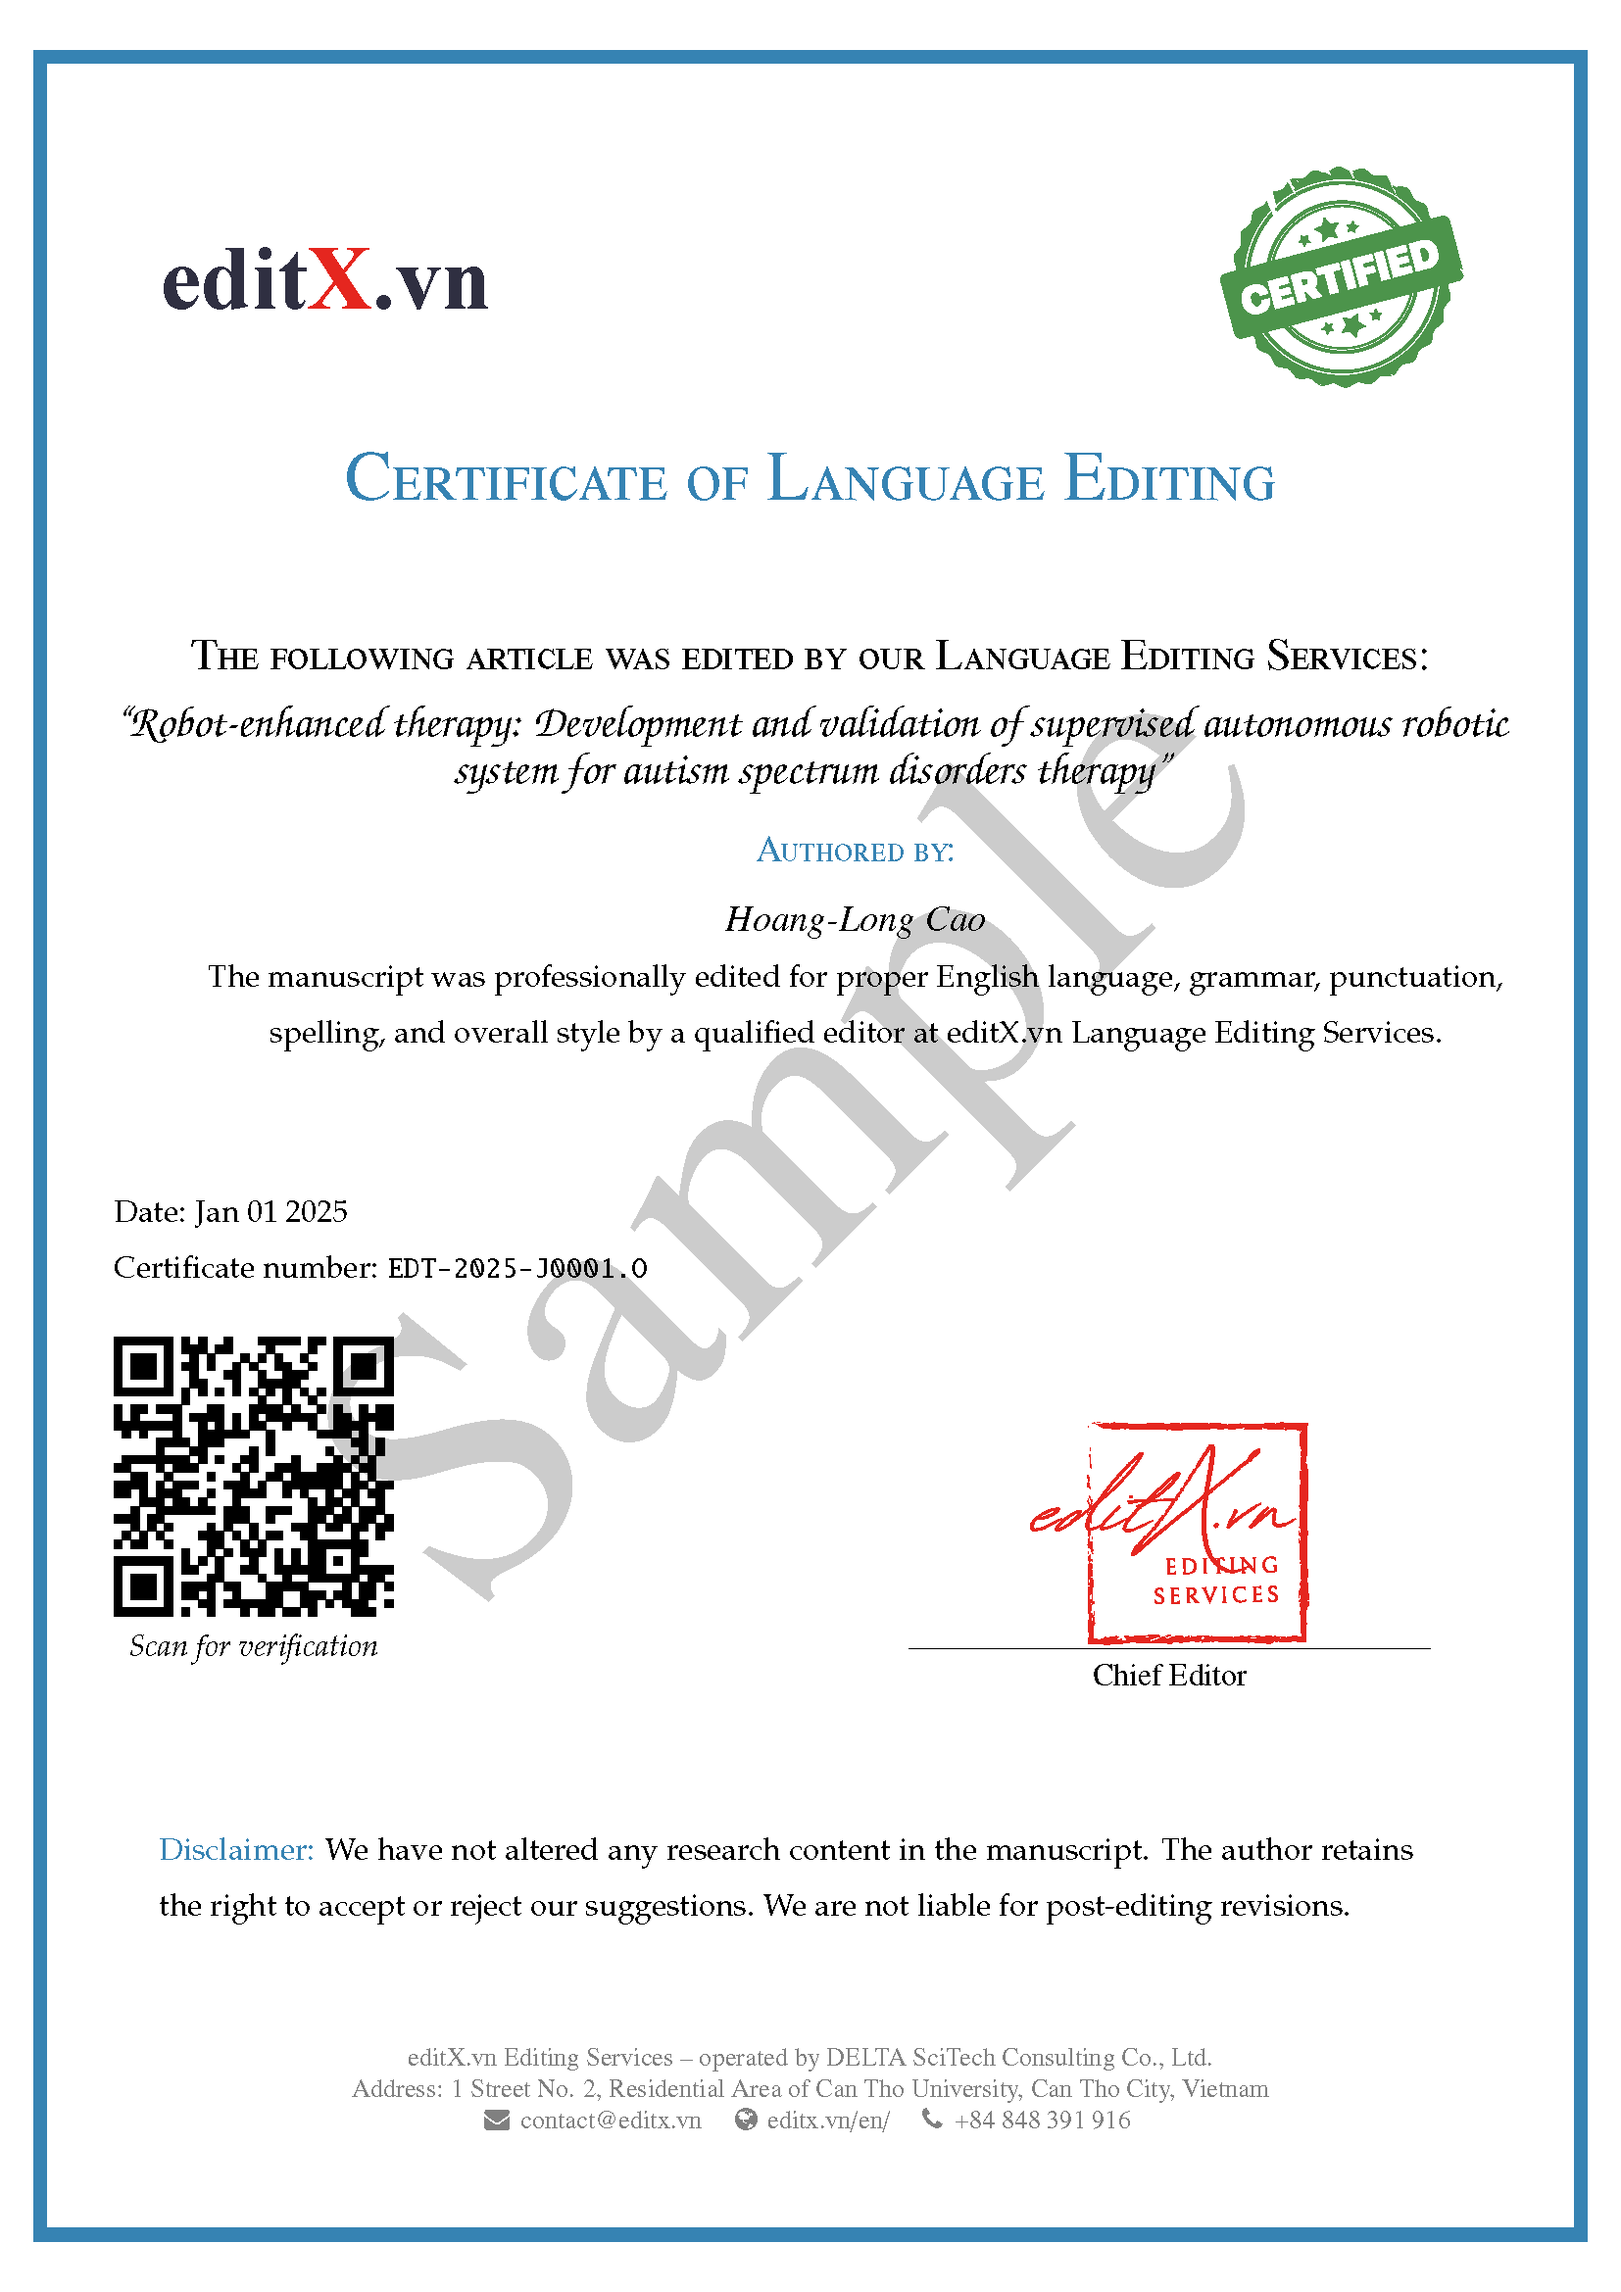
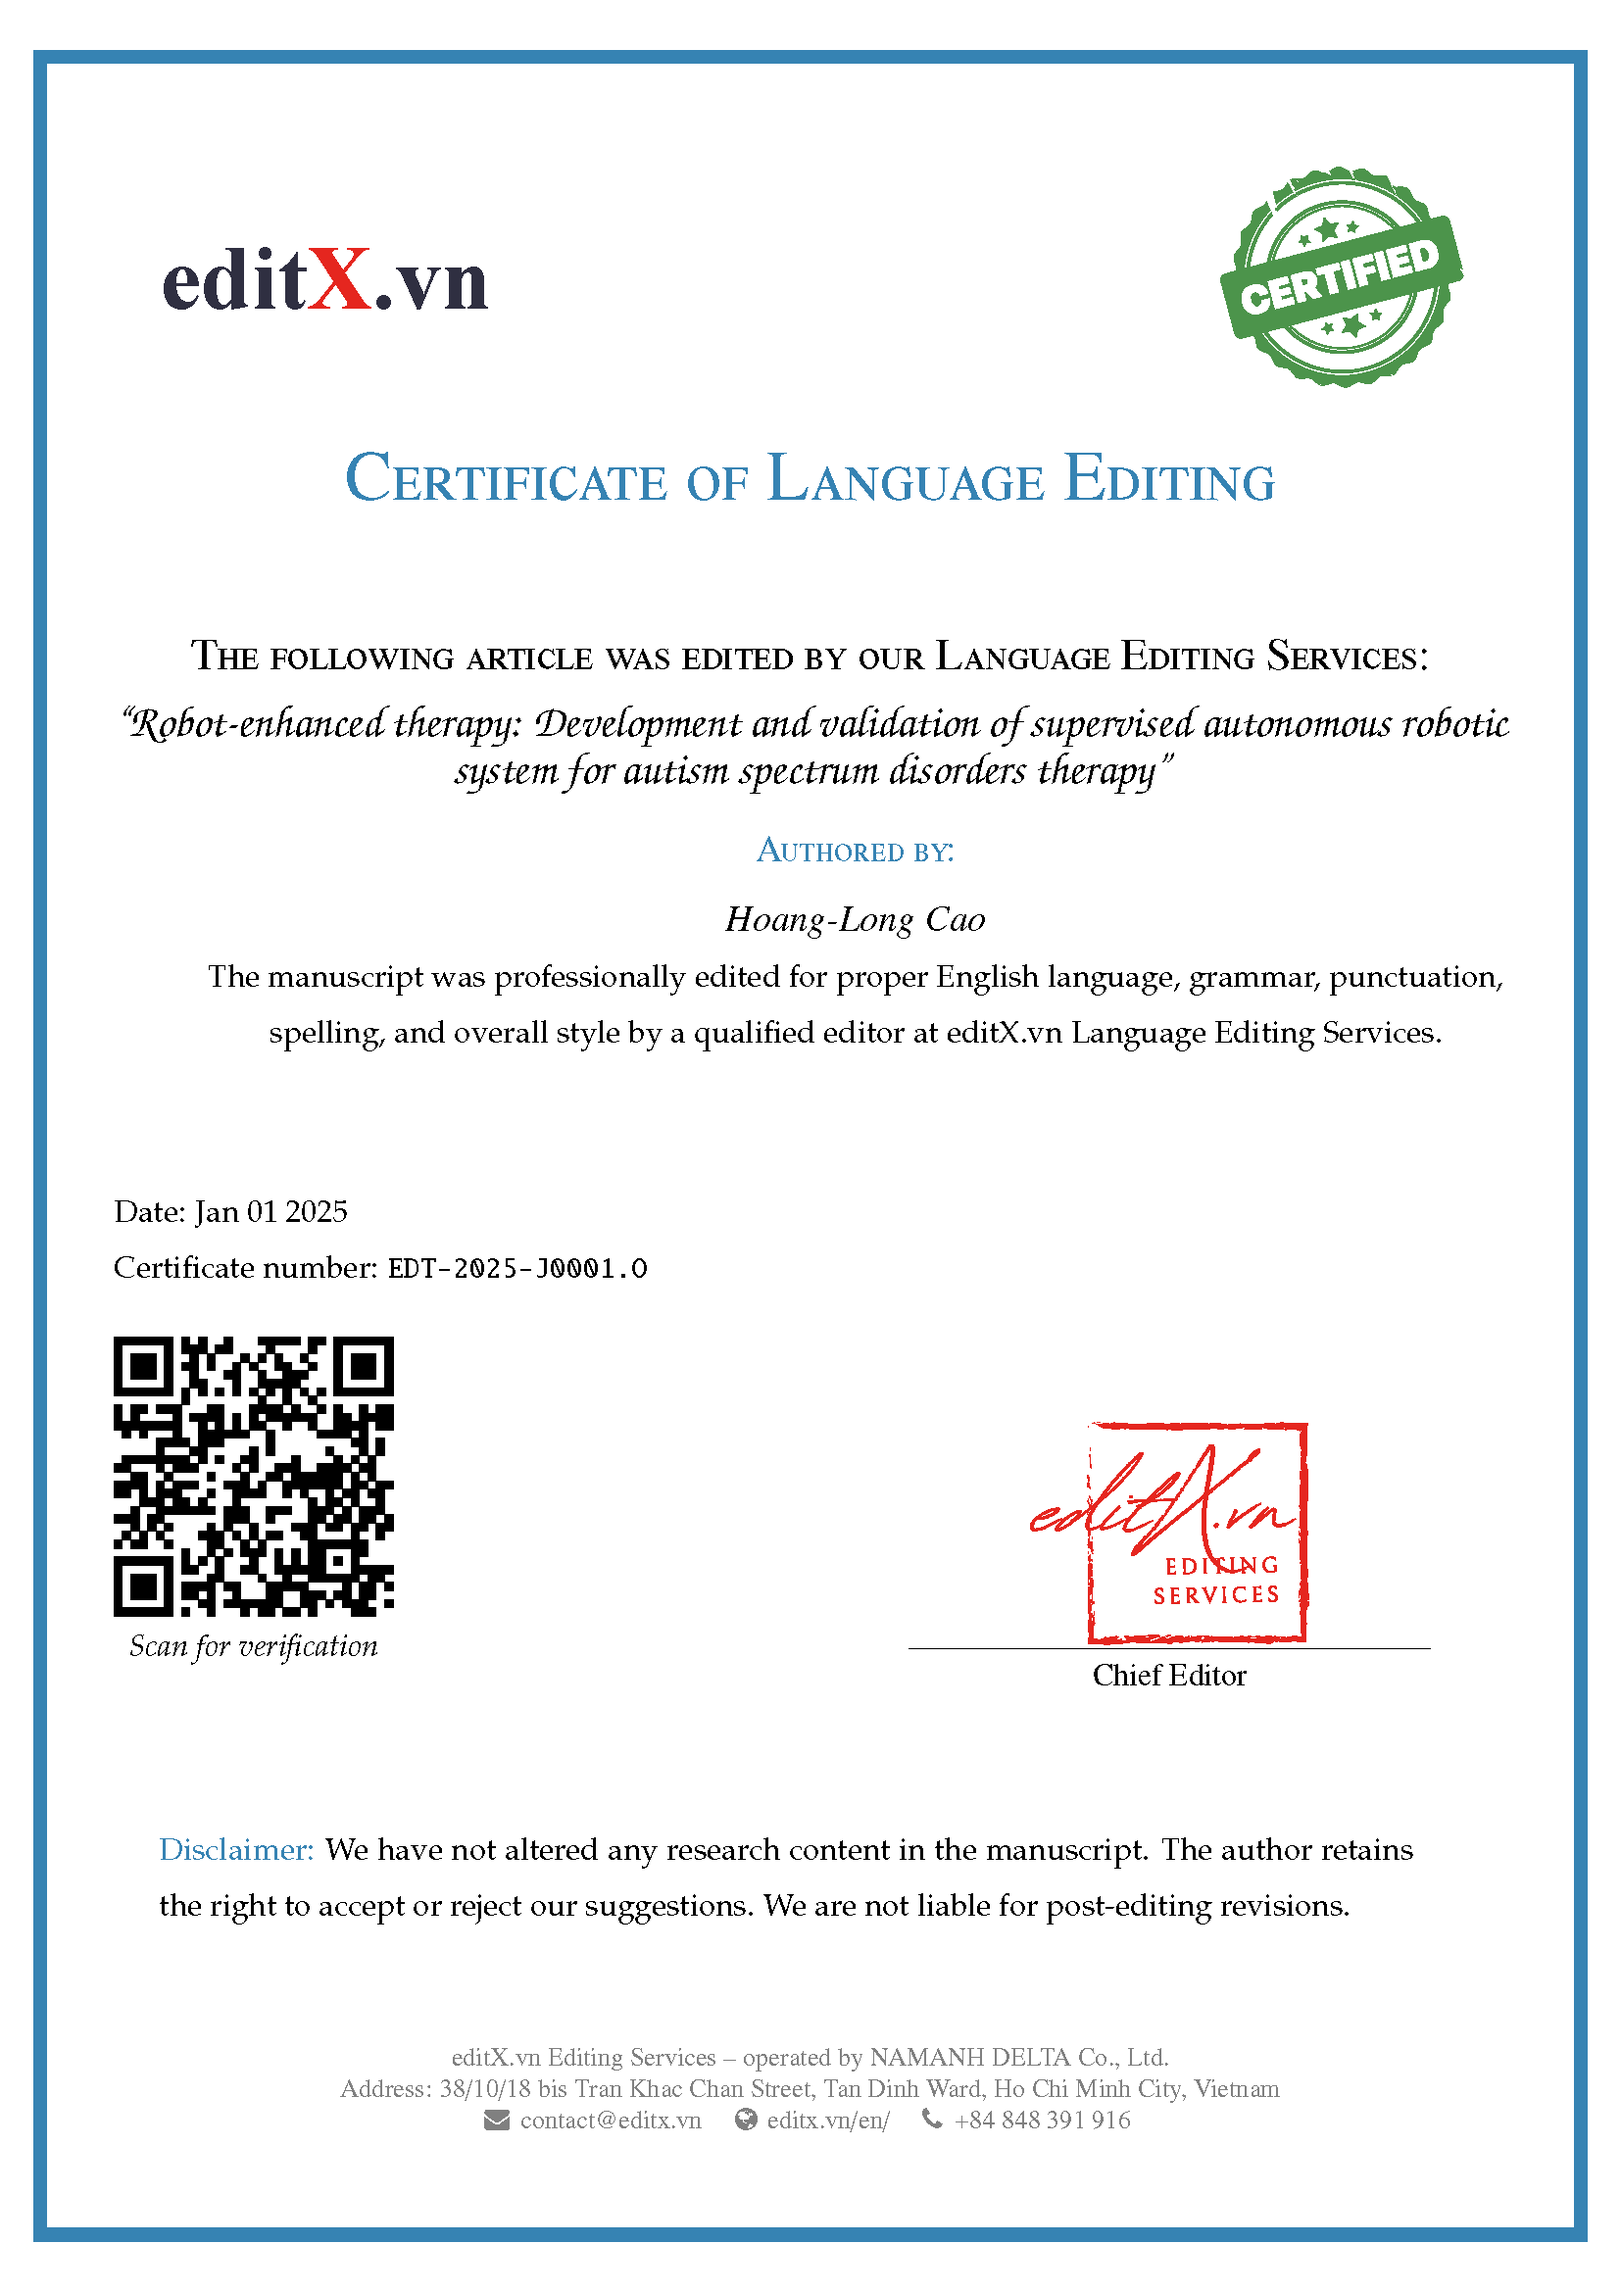
Update NAMANH

diff --git a/services/Nang cao chat luong minh hoa/index.html b/services/Nang cao chat luong minh hoa/index.html
@@ -152,8 +152,10 @@ Minh họa phức tạp: từ <strong>200.000đ</strong>/đồ thị và từ <s
         </div>
         <div class="copyright" style="color: white; font-size: 0.875rem;">
         <!-- Dịch vụ của Công ty TNHH Tư vấn khoa học và công nghệ DELTA<br> -->
-        Dịch vụ của Công ty TNHH Tư vấn khoa học và công nghệ DELTA (đang hoàn tất đăng ký)<br>
-        Số 1, Đường số 2, Khu cán bộ giảng viên Đại học Cần Thơ, Tp. Cần Thơ, Việt Nam
+        Dịch vụ của Công ty TNHH NAMANH DELTA<br>
+        38/10/18 bis Trần Khắc Chân, Phường Tân Định, Quận 1, Thành phố Hồ Chí Minh, Việt Nam<br>
+        Điện thoại/Zalo: 0848 391 916<br>
+        Email: hotro@editx.vn
         </div>
       </div>
     </div>

diff --git a/services/index.html b/services/index.html
@@ -321,8 +321,10 @@ Minh họa phức tạp: từ <strong>200.000đ</strong>/đồ thị và từ <s
         </div>
         <div class="copyright" style="color: white; font-size: 0.875rem;">
         <!-- Dịch vụ của Công ty TNHH Tư vấn khoa học và công nghệ DELTA<br> -->
-        Dịch vụ của Công ty TNHH Tư vấn khoa học và công nghệ DELTA (đang hoàn tất đăng ký)<br>
-        Số 1, Đường số 2, Khu cán bộ giảng viên Đại học Cần Thơ, Tp. Cần Thơ, Việt Nam
+        Dịch vụ của Công ty TNHH NAMANH DELTA<br>
+        38/10/18 bis Trần Khắc Chân, Phường Tân Định, Quận 1, Thành phố Hồ Chí Minh, Việt Nam<br>
+        Điện thoại/Zalo: 0848 391 916<br>
+        Email: hotro@editx.vn
         </div>
       </div>
     </div>

diff --git a/404.html b/404.html
@@ -135,8 +135,10 @@
         </div>
         <div class="copyright" style="color: white; font-size: 0.875rem;">
         <!-- Dịch vụ của Công ty TNHH Tư vấn khoa học và công nghệ DELTA<br> -->
-        Dịch vụ của Công ty TNHH Tư vấn khoa học và công nghệ DELTA (đang hoàn tất đăng ký)<br>
-        Số 1, Đường số 2, Khu cán bộ giảng viên Đại học Cần Thơ, Tp. Cần Thơ, Việt Nam
+        Dịch vụ của Công ty TNHH NAMANH DELTA<br>
+        38/10/18 bis Trần Khắc Chân, Phường Tân Định, Quận 1, Thành phố Hồ Chí Minh, Việt Nam<br>
+        Điện thoại/Zalo: 0848 391 916<br>
+        Email: hotro@editx.vn
         </div>
       </div>
     </div>

diff --git a/contact/index.html b/contact/index.html
@@ -215,8 +215,10 @@
         </div>
         <div class="copyright" style="color: white; font-size: 0.875rem;">
         <!-- Dịch vụ của Công ty TNHH Tư vấn khoa học và công nghệ DELTA<br> -->
-        Dịch vụ của Công ty TNHH Tư vấn khoa học và công nghệ DELTA (đang hoàn tất đăng ký)<br>
-        Số 1, Đường số 2, Khu cán bộ giảng viên Đại học Cần Thơ, Tp. Cần Thơ, Việt Nam
+        Dịch vụ của Công ty TNHH NAMANH DELTA<br>
+        38/10/18 bis Trần Khắc Chân, Phường Tân Định, Quận 1, Thành phố Hồ Chí Minh, Việt Nam<br>
+        Điện thoại/Zalo: 0848 391 916<br>
+        Email: hotro@editx.vn
         </div>
       </div>
     </div>

diff --git a/index.html b/index.html
@@ -288,8 +288,10 @@
         </div>
         <div class="copyright" style="color: white; font-size: 0.875rem;">
         <!-- Dịch vụ của Công ty TNHH Tư vấn khoa học và công nghệ DELTA<br> -->
-        Dịch vụ của Công ty TNHH Tư vấn khoa học và công nghệ DELTA (đang hoàn tất đăng ký)<br>
-        Số 1, Đường số 2, Khu cán bộ giảng viên Đại học Cần Thơ, Tp. Cần Thơ, Việt Nam
+        Dịch vụ của Công ty TNHH NAMANH DELTA<br>
+        38/10/18 bis Trần Khắc Chân, Phường Tân Định, Quận 1, Thành phố Hồ Chí Minh, Việt Nam<br>
+        Điện thoại/Zalo: 0848 391 916<br>
+        Email: hotro@editx.vn
         </div>
       </div>
     </div>

diff --git a/services/Dinh dang ban thao/index.html b/services/Dinh dang ban thao/index.html
@@ -145,8 +145,10 @@
         </div>
         <div class="copyright" style="color: white; font-size: 0.875rem;">
         <!-- Dịch vụ của Công ty TNHH Tư vấn khoa học và công nghệ DELTA<br> -->
-        Dịch vụ của Công ty TNHH Tư vấn khoa học và công nghệ DELTA (đang hoàn tất đăng ký)<br>
-        Số 1, Đường số 2, Khu cán bộ giảng viên Đại học Cần Thơ, Tp. Cần Thơ, Việt Nam
+        Dịch vụ của Công ty TNHH NAMANH DELTA<br>
+        38/10/18 bis Trần Khắc Chân, Phường Tân Định, Quận 1, Thành phố Hồ Chí Minh, Việt Nam<br>
+        Điện thoại/Zalo: 0848 391 916<br>
+        Email: hotro@editx.vn
         </div>
       </div>
     </div>

diff --git a/services/Dinh dang ban thao_en/index.html b/services/Dinh dang ban thao_en/index.html
@@ -131,8 +131,10 @@
         </div>
         <div class="copyright" style="color: white; font-size: 0.875rem;">
         <!-- Dịch vụ của Công ty TNHH Tư vấn khoa học và công nghệ DELTA<br> -->
-        Dịch vụ của Công ty TNHH Tư vấn khoa học và công nghệ DELTA (đang hoàn tất đăng ký)<br>
-        Số 1, Đường số 2, Khu cán bộ giảng viên Đại học Cần Thơ, Tp. Cần Thơ, Việt Nam
+        Dịch vụ của Công ty TNHH NAMANH DELTA<br>
+        38/10/18 bis Trần Khắc Chân, Phường Tân Định, Quận 1, Thành phố Hồ Chí Minh, Việt Nam<br>
+        Điện thoại/Zalo: 0848 391 916<br>
+        Email: hotro@editx.vn
         </div>
       </div>
     </div>

diff --git a/services/Hoan thien toan bo ban thao/index.html b/services/Hoan thien toan bo ban thao/index.html
@@ -174,8 +174,10 @@
         </div>
         <div class="copyright" style="color: white; font-size: 0.875rem;">
         <!-- Dịch vụ của Công ty TNHH Tư vấn khoa học và công nghệ DELTA<br> -->
-        Dịch vụ của Công ty TNHH Tư vấn khoa học và công nghệ DELTA (đang hoàn tất đăng ký)<br>
-        Số 1, Đường số 2, Khu cán bộ giảng viên Đại học Cần Thơ, Tp. Cần Thơ, Việt Nam
+        Dịch vụ của Công ty TNHH NAMANH DELTA<br>
+        38/10/18 bis Trần Khắc Chân, Phường Tân Định, Quận 1, Thành phố Hồ Chí Minh, Việt Nam<br>
+        Điện thoại/Zalo: 0848 391 916<br>
+        Email: hotro@editx.vn
         </div>
       </div>
     </div>

diff --git a/services/Hoan thien toan bo ban thao_en/index.html b/services/Hoan thien toan bo ban thao_en/index.html
@@ -131,8 +131,10 @@
         </div>
         <div class="copyright" style="color: white; font-size: 0.875rem;">
         <!-- Dịch vụ của Công ty TNHH Tư vấn khoa học và công nghệ DELTA<br> -->
-        Dịch vụ của Công ty TNHH Tư vấn khoa học và công nghệ DELTA (đang hoàn tất đăng ký)<br>
-        Số 1, Đường số 2, Khu cán bộ giảng viên Đại học Cần Thơ, Tp. Cần Thơ, Việt Nam
+        Dịch vụ của Công ty TNHH NAMANH DELTA<br>
+        38/10/18 bis Trần Khắc Chân, Phường Tân Định, Quận 1, Thành phố Hồ Chí Minh, Việt Nam<br>
+        Điện thoại/Zalo: 0848 391 916<br>
+        Email: hotro@editx.vn
         </div>
       </div>
     </div>

diff --git a/services/Nang cao chat luong minh hoa_en/index.html b/services/Nang cao chat luong minh hoa_en/index.html
@@ -131,8 +131,10 @@
         </div>
         <div class="copyright" style="color: white; font-size: 0.875rem;">
         <!-- Dịch vụ của Công ty TNHH Tư vấn khoa học và công nghệ DELTA<br> -->
-        Dịch vụ của Công ty TNHH Tư vấn khoa học và công nghệ DELTA (đang hoàn tất đăng ký)<br>
-        Số 1, Đường số 2, Khu cán bộ giảng viên Đại học Cần Thơ, Tp. Cần Thơ, Việt Nam
+        Dịch vụ của Công ty TNHH NAMANH DELTA<br>
+        38/10/18 bis Trần Khắc Chân, Phường Tân Định, Quận 1, Thành phố Hồ Chí Minh, Việt Nam<br>
+        Điện thoại/Zalo: 0848 391 916<br>
+        Email: hotro@editx.vn
         </div>
       </div>
     </div>

diff --git a/team/cao hoang long/index.html b/team/cao hoang long/index.html
@@ -132,8 +132,10 @@
         </div>
         <div class="copyright" style="color: white; font-size: 0.875rem;">
         <!-- Dịch vụ của Công ty TNHH Tư vấn khoa học và công nghệ DELTA<br> -->
-        Dịch vụ của Công ty TNHH Tư vấn khoa học và công nghệ DELTA (đang hoàn tất đăng ký)<br>
-        Số 1, Đường số 2, Khu cán bộ giảng viên Đại học Cần Thơ, Tp. Cần Thơ, Việt Nam
+        Dịch vụ của Công ty TNHH NAMANH DELTA<br>
+        38/10/18 bis Trần Khắc Chân, Phường Tân Định, Quận 1, Thành phố Hồ Chí Minh, Việt Nam<br>
+        Điện thoại/Zalo: 0848 391 916<br>
+        Email: hotro@editx.vn
         </div>
       </div>
     </div>

diff --git a/team/constantin scholz/index.html b/team/constantin scholz/index.html
@@ -132,8 +132,10 @@
         </div>
         <div class="copyright" style="color: white; font-size: 0.875rem;">
         <!-- Dịch vụ của Công ty TNHH Tư vấn khoa học và công nghệ DELTA<br> -->
-        Dịch vụ của Công ty TNHH Tư vấn khoa học và công nghệ DELTA (đang hoàn tất đăng ký)<br>
-        Số 1, Đường số 2, Khu cán bộ giảng viên Đại học Cần Thơ, Tp. Cần Thơ, Việt Nam
+        Dịch vụ của Công ty TNHH NAMANH DELTA<br>
+        38/10/18 bis Trần Khắc Chân, Phường Tân Định, Quận 1, Thành phố Hồ Chí Minh, Việt Nam<br>
+        Điện thoại/Zalo: 0848 391 916<br>
+        Email: hotro@editx.vn
         </div>
       </div>
     </div>
